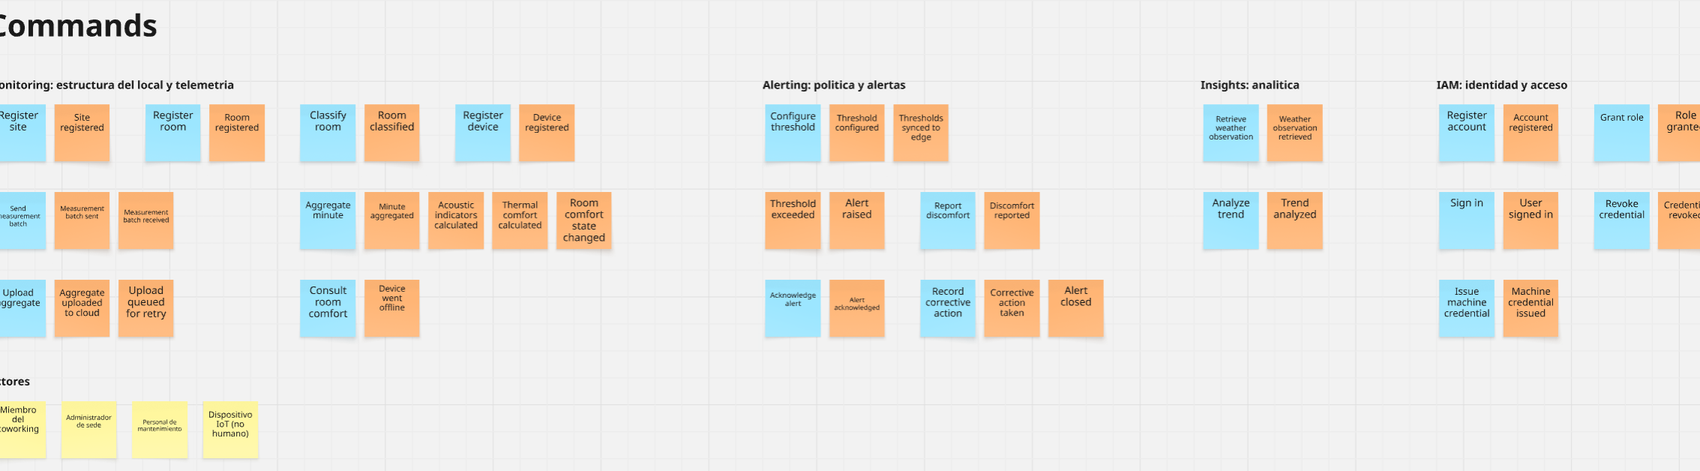
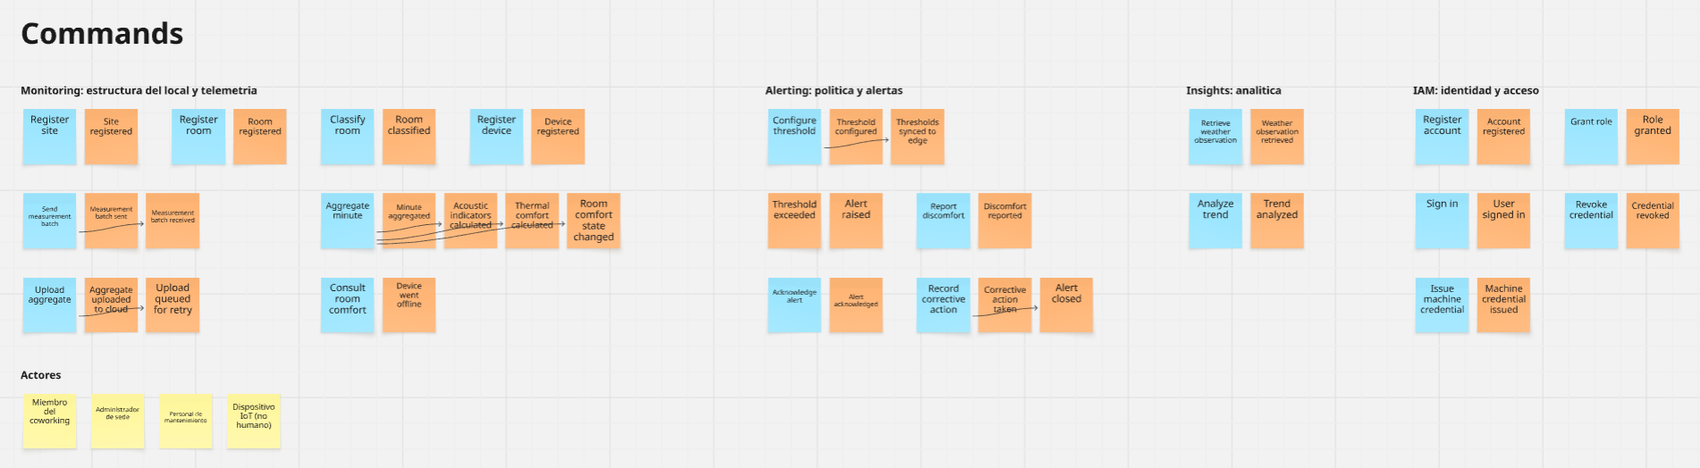
fix(chapter-4): recapturar las figuras que quedaron de una version anterior
Siete figuras seguian siendo la captura vieja, tomada antes de los
cambios posteriores al tablero: paso 4 sin los conectores entre comando
y evento, y los pasos 1, 2a, 5a, 9, 9a y 9b antes de igualar el tamano
de letra y de quitar las rayas largas de los rotulos. Se vuelven a
capturar del tablero actual, de modo que ninguna figura del informe es
anterior al ultimo cambio del modelo.

Se retiran ademas los cuatro nombres de contexto con formato de codigo
que quedaban en 4.2, esta vez en mayuscula: la limpieza anterior solo
cubrio la version en minuscula.

diff --git a/README.md b/README.md
@@ -1807,7 +1807,7 @@ Controllers:
 <a id="4215-bounded-context-software-architecture-component-level-diagrams"></a>
 #### <i>**4.2.1.5. Bounded Context Software Architecture Component Level Diagrams.**</i>
 
-La solución despliega un único container para los servicios en la nube —la aplicación `cloud-api`, construida con Spring Boot 4 sobre Java 21—, dentro del cual cada bounded context ocupa su propio paquete y no comparte clases con los demás. El diagrama descompone ese container en los componentes de `Alerting`, agrupados por la capa a la que pertenecen, e indica para cada uno su tecnología y su responsabilidad.
+La solución despliega un único container para los servicios en la nube —la aplicación `cloud-api`, construida con Spring Boot 4 sobre Java 21—, dentro del cual cada bounded context ocupa su propio paquete y no comparte clases con los demás. El diagrama descompone ese container en los componentes de Alerting, agrupados por la capa a la que pertenecen, e indica para cada uno su tecnología y su responsabilidad.
 
 ```mermaid
 flowchart TB
@@ -2071,7 +2071,7 @@ Contiene las reglas de identidad, autenticación y credenciales de acceso, tanto
 <a id="4225-bounded-context-software-architecture-component-level-diagrams"></a>
 #### <i>**4.2.2.5. Bounded Context Software Architecture Component Level Diagrams.**</i>
 
-La solución despliega un único container para los servicios en la nube —la aplicación `cloud-api`, construida con Spring Boot 4 sobre Java 21—, dentro del cual cada bounded context ocupa su propio paquete y no comparte clases con los demás. El diagrama descompone ese container en los componentes de `IAM`, agrupados por la capa a la que pertenecen, e indica para cada uno su tecnología y su responsabilidad.
+La solución despliega un único container para los servicios en la nube —la aplicación `cloud-api`, construida con Spring Boot 4 sobre Java 21—, dentro del cual cada bounded context ocupa su propio paquete y no comparte clases con los demás. El diagrama descompone ese container en los componentes de IAM, agrupados por la capa a la que pertenecen, e indica para cada uno su tecnología y su responsabilidad.
 
 ```mermaid
 flowchart TB
@@ -2404,7 +2404,7 @@ Este contexto no gestiona telemetría cruda; consume series ya calculadas y prod
 <a id="4235-bounded-context-software-architecture-component-level-diagrams"></a>
 #### <i>**4.2.3.5. Bounded Context Software Architecture Component Level Diagrams.**</i>
 
-La solución despliega un único container para los servicios en la nube —la aplicación `cloud-api`, construida con Spring Boot 4 sobre Java 21—, dentro del cual cada bounded context ocupa su propio paquete y no comparte clases con los demás. El diagrama descompone ese container en los componentes de `Insights`, agrupados por la capa a la que pertenecen, e indica para cada uno su tecnología y su responsabilidad.
+La solución despliega un único container para los servicios en la nube —la aplicación `cloud-api`, construida con Spring Boot 4 sobre Java 21—, dentro del cual cada bounded context ocupa su propio paquete y no comparte clases con los demás. El diagrama descompone ese container en los componentes de Insights, agrupados por la capa a la que pertenecen, e indica para cada uno su tecnología y su responsabilidad.
 
 ```mermaid
 flowchart TB
@@ -2684,7 +2684,7 @@ Es el *core domain* de la plataforma: administra la estructura física del negoc
 <a id="4245-bounded-context-software-architecture-component-level-diagrams"></a>
 #### <i>**4.2.4.5. Bounded Context Software Architecture Component Level Diagrams.**</i>
 
-La solución despliega un único container para los servicios en la nube —la aplicación `cloud-api`, construida con Spring Boot 4 sobre Java 21—, dentro del cual cada bounded context ocupa su propio paquete y no comparte clases con los demás. El diagrama descompone ese container en los componentes de `Monitoring`, agrupados por la capa a la que pertenecen, e indica para cada uno su tecnología y su responsabilidad.
+La solución despliega un único container para los servicios en la nube —la aplicación `cloud-api`, construida con Spring Boot 4 sobre Java 21—, dentro del cual cada bounded context ocupa su propio paquete y no comparte clases con los demás. El diagrama descompone ese container en los componentes de Monitoring, agrupados por la capa a la que pertenecen, e indica para cada uno su tecnología y su responsabilidad.
 
 ```mermaid
 flowchart TB
